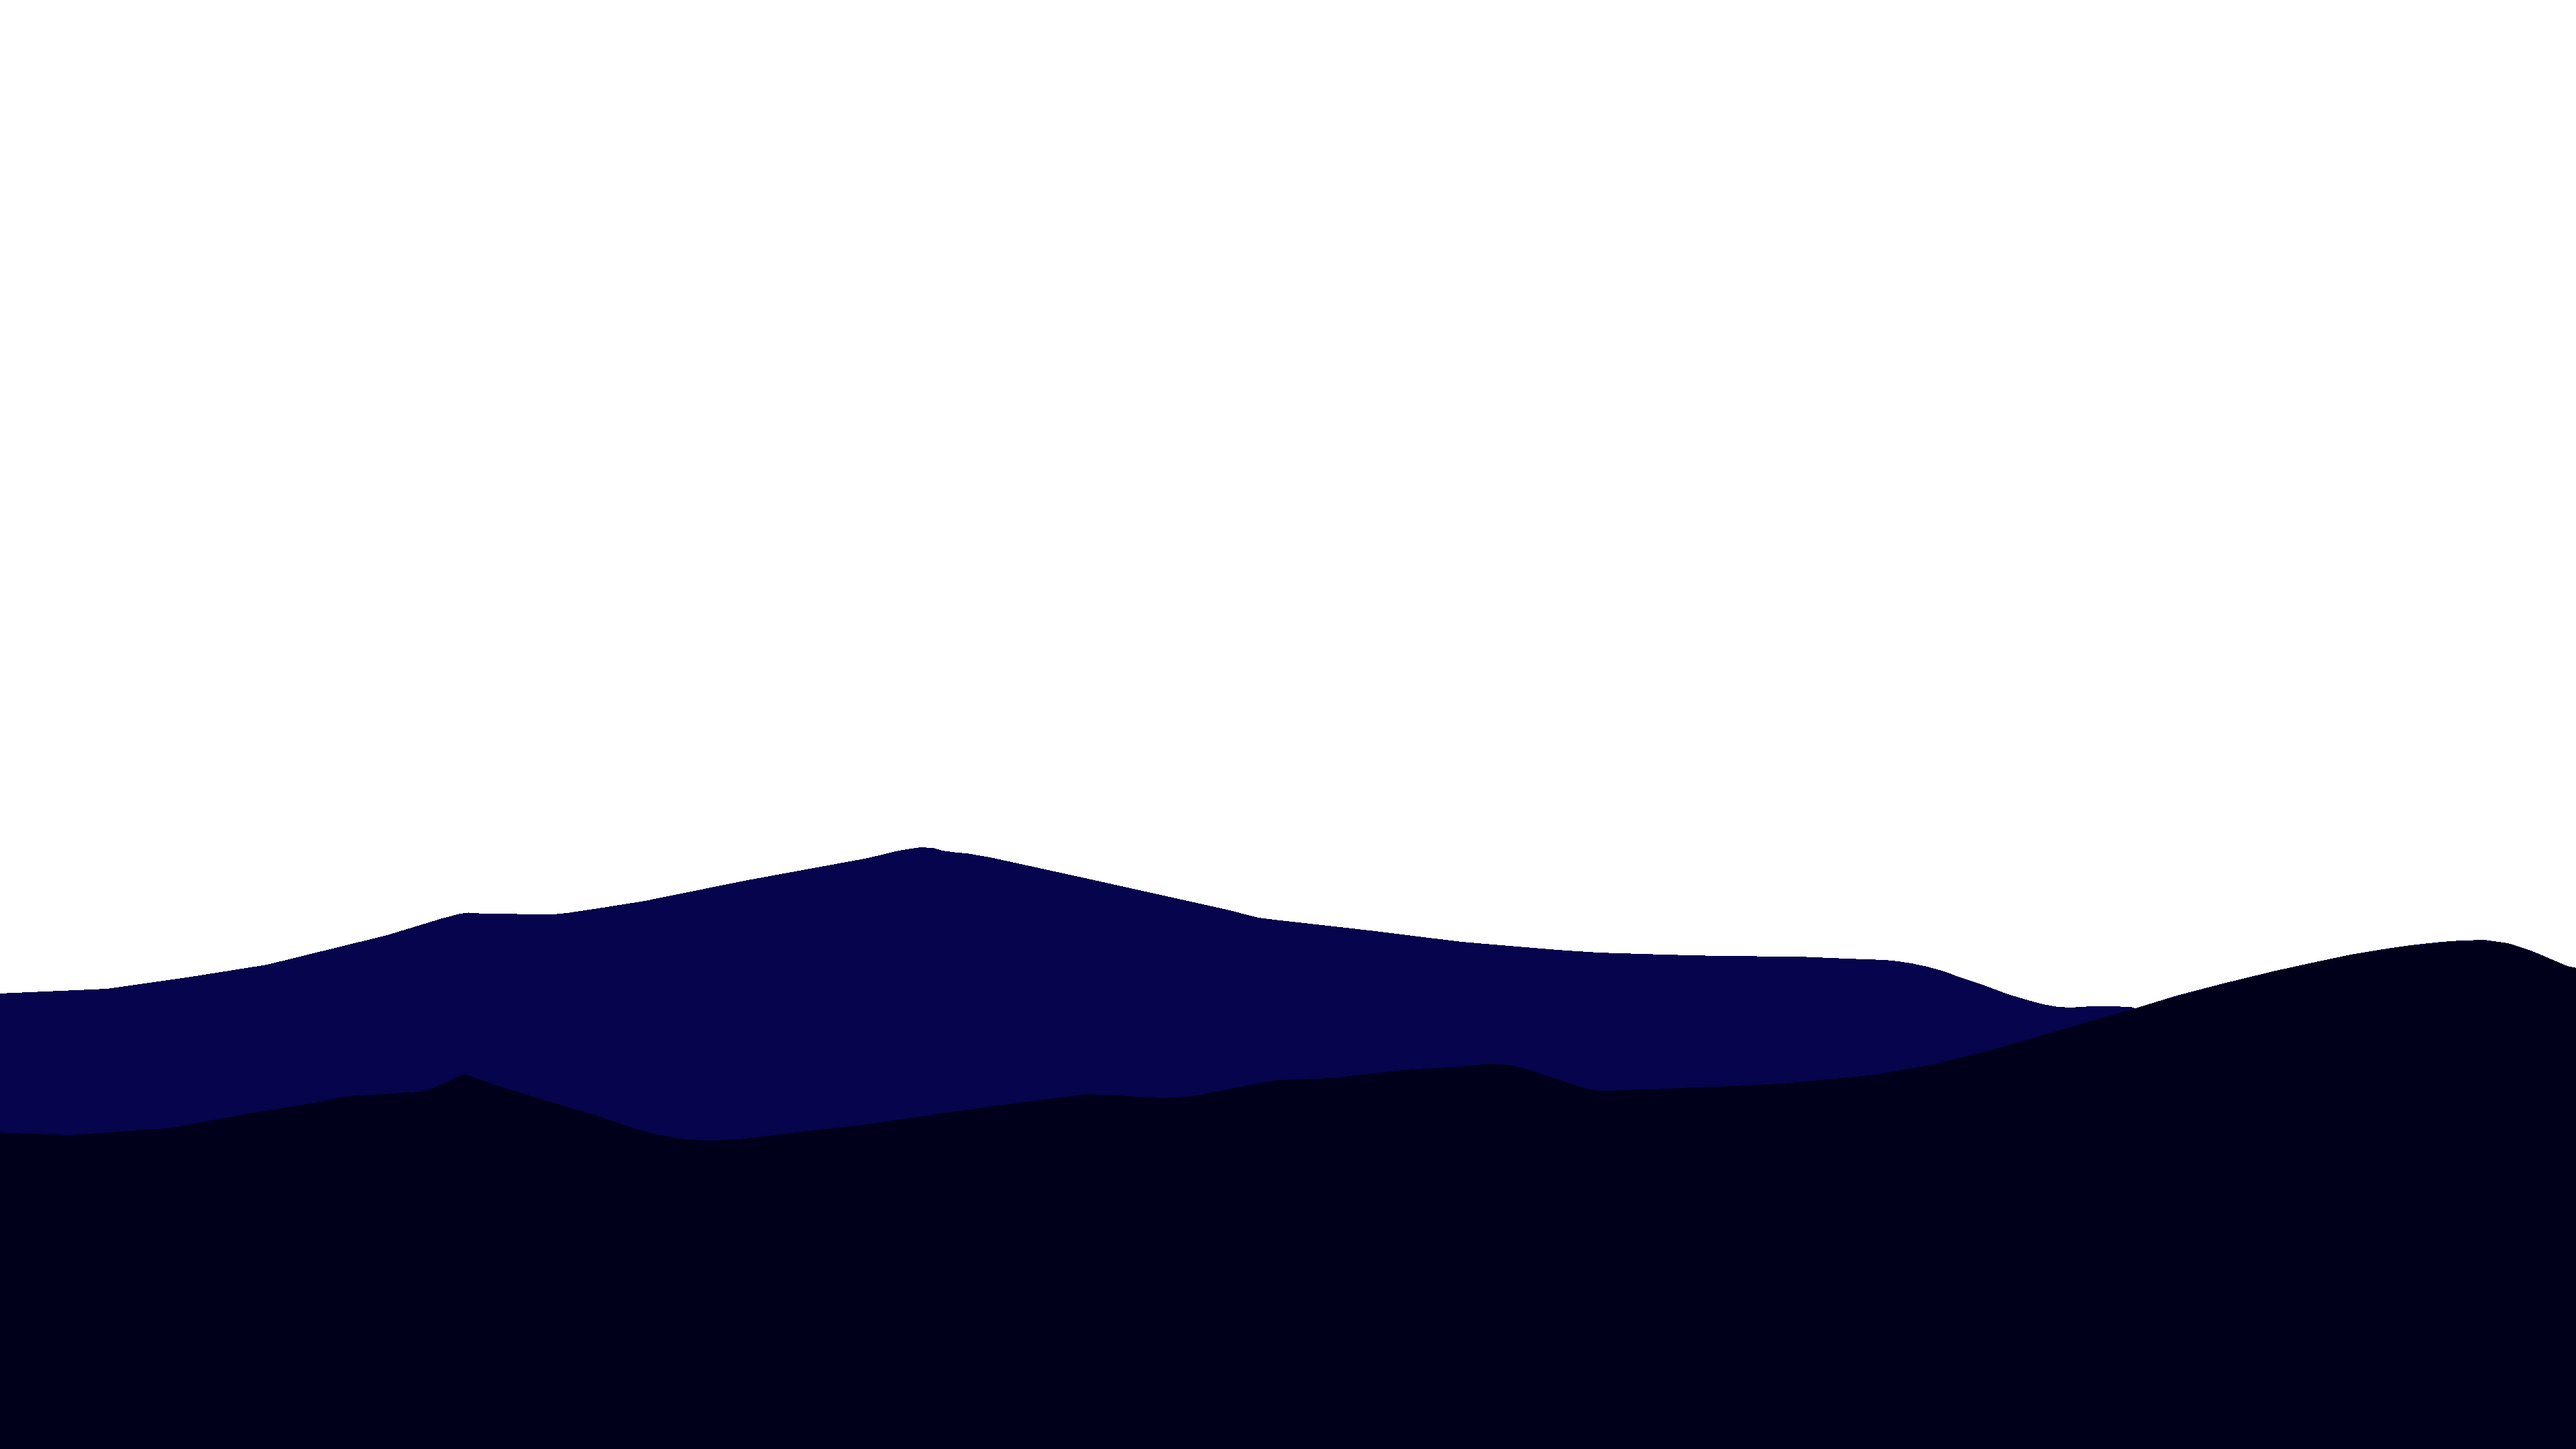
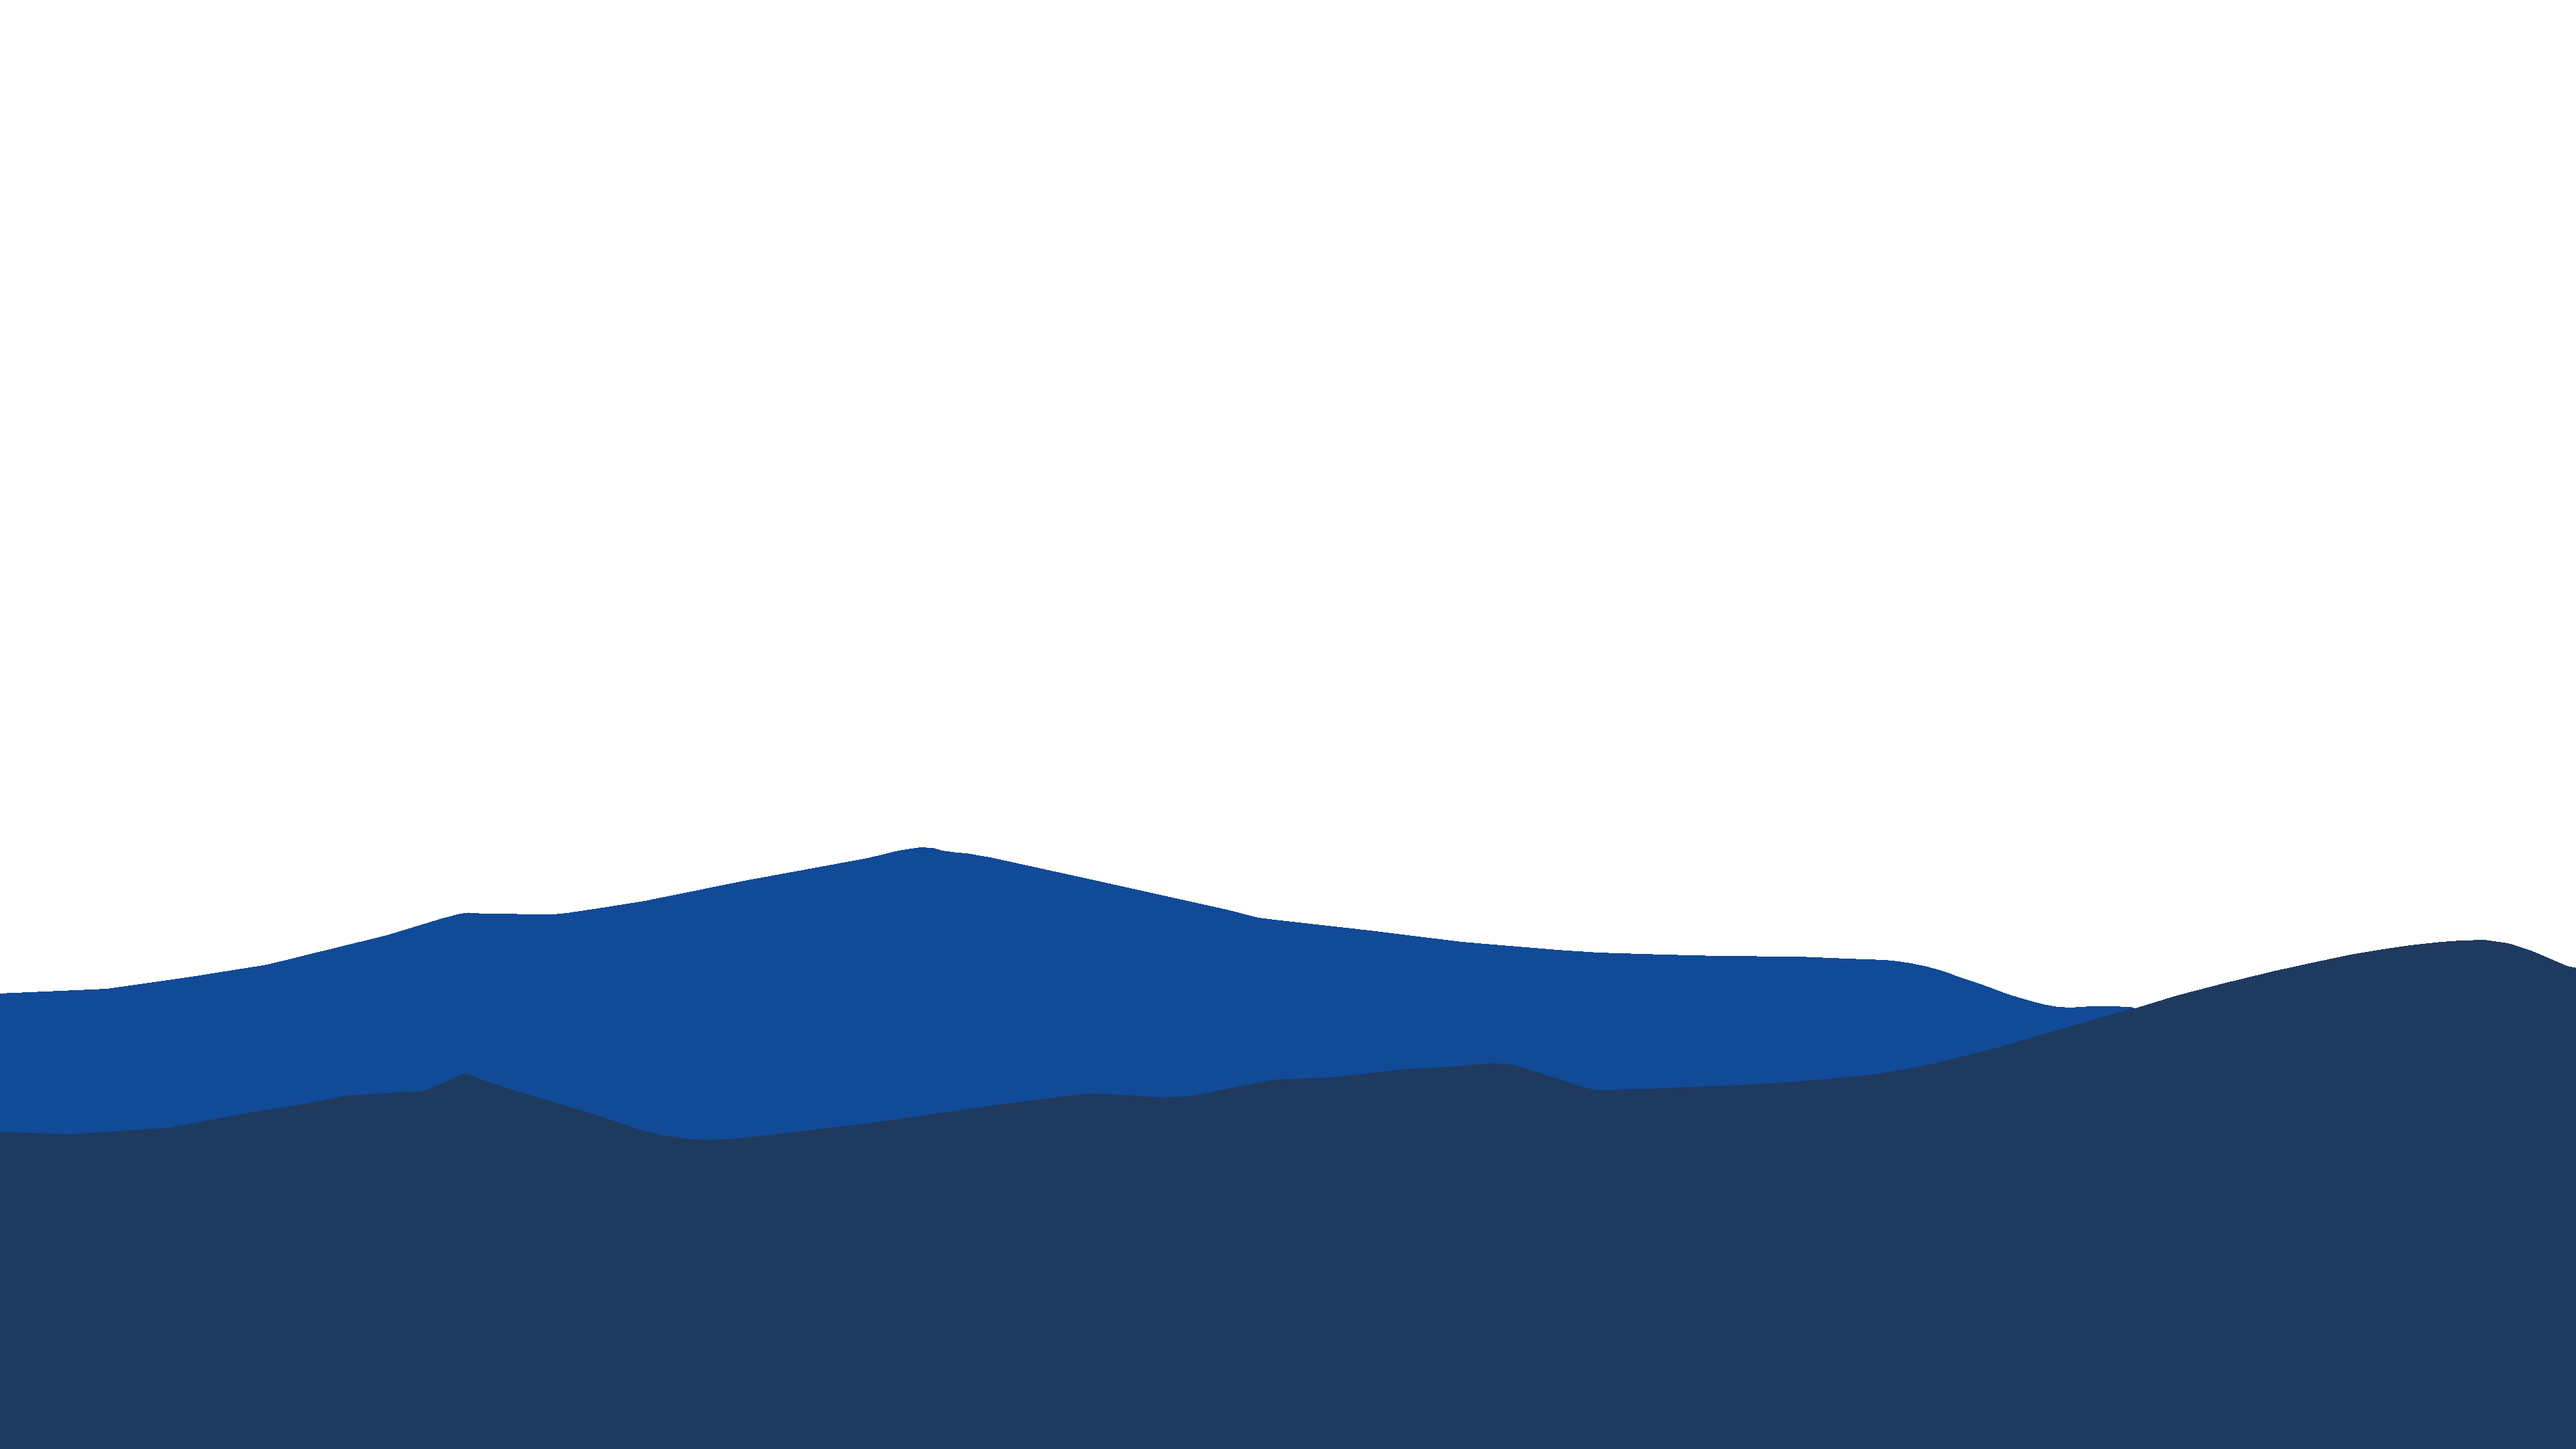
Fixed layout and added suggested courses

diff --git a/public/stylesheets/index.css b/public/stylesheets/index.css
@@ -10,9 +10,13 @@ body
 {
   margin: 0;
   overflow-x: hidden;
-  background-color: #00001a;
+  background-color: #1e3a5f;
   color: white;
 }
+
+/*
+  Parallax
+*/
 
 #parallax-overlay
 {
@@ -27,14 +31,74 @@ body
   font-family: VCR_OSD_MONO;
 }
 
+/*
+  Content
+*/
+
 #contentSection
 {
   width: 95%;
   margin: 0 auto;
 }
 
+/*
+  Responsive flex box
+*/
+.responsive-flex
+{
+  display: flex;
+  justify-content: center;
+  align-items: center;
+  flex-direction: column;
+  margin: -10px;
+}
+
+/*
+  Course Box
+*/
+.courseBox
+{
+  background-color: white;
+  width: calc(30% - 20px);
+  margin: 10px;
+  display: flex;
+  color: black;
+  padding: 10px;
+  box-shadow: 0px 3px 16px rgba(0, 0, 0, 0.16);
+}
+
+.courseBox img
+{
+  height: 100px;
+}
+
+.courseBox h1
+{
+  margin: 7px 0;
+  font-size: 20px;
+}
+
+.courseBox p
+{
+  margin: 0;
+}
+
+.courseBox h1,
+.courseBox p
+{
+  text-align: center;
+}
+
+footer
+{
+  min-height: 500px;
+}
+
 @media screen and (min-width: 800px)
 {
+  /*
+    Paralex
+  */
   #parallax-container
   {
     display: block;
@@ -63,4 +127,14 @@ body
   #parallax-container div:nth-of-type(5) { background-image: url("../img/5.png"); z-index: 10;}
   #parallax-container div:nth-of-type(6) { background-image: url("../img/6.png"); z-index: 5;}
   #parallax-container div:nth-of-type(7) { background-image: url("../img/7.png"); z-index: 0; }
+
+  /*
+    Responsive flex
+  */
+  .responsive-flex
+  {
+    flex-direction: row;
+    flex-wrap: wrap;
+  }
+
 }

diff --git a/public/script/parralax.js b/public/script/parralax.js
@@ -4,6 +4,8 @@ window.addEventListener('scroll', () => {
    for(let i = 0; i < children.length; i++) {
      children[i].style.transform = 'translateY(-' + (window.pageYOffset * (children.length - i) / children.length * 2) + 'px)';
    }
-   parent.style.height = (window.innerHeight - window.pageYOffset) + 'px';
-   console.log(parent.style.height)
+   if(parent.offsetHeight > window.pageYOffset)
+   {
+    parent.style.height = (window.innerHeight - window.pageYOffset) + 'px';
+   }
 }, false)

diff --git a/public/pages/index.php b/public/pages/index.php
@@ -49,13 +49,82 @@
         <div></div>
     </div>
     <section id='contentSection'>
-        <h1>
-            Welcome to Learn2gether!
-        </h1>
-        <p>
-            Learn2gether is an website where you can learn programming by making excercises that everyone can publish on the website. 
-            We as Learn2gether want everyone to be able to learn programming withouth a problem. 
-        </p>
+        <section>
+            <h1>
+                Welcome to Learn2gether!
+            </h1>
+            <p>
+                Learn2gether is an website where you can learn programming by making excercises that everyone can publish on the website. 
+                We as Learn2gether want everyone to be able to learn programming withouth a problem. 
+            </p>
+        </section>
+        <section id="suggestedCourses">
+            <h1>
+                Suggested Courses
+            </h1>
+            <div class="responsive-flex">
+                <div class="courseBox">
+                    <div class="grid-y">
+                        <div class="grid-x">
+                            <div class="cell">
+                                <img class="float-center" src="../img/html_logo.png" alt="">
+                            </div>
+                        </div>
+                        <div class="grid-x">
+                            <div class="cell">
+                                <h1>
+                                    HTML
+                                </h1>
+                                <p>
+                                Lorem ipsum dolor sit amet, consectetur adipiscing elit. Aliquam mollis, erat id molestie aliquam.
+                                </p>
+                            </div>
+                        </div>
+                    </div>
+                </div>
+                <div class="courseBox">
+                    <div class="grid-y">
+                        <div class="grid-x">
+                            <div class="cell">
+                                <img class="float-center" src="../img/css_logo.png" alt="">
+                            </div>
+                        </div>
+                        <div class="grid-x">
+                            <div class="cell">
+                                <h1>
+                                    CSS
+                                </h1>
+                                <p>
+                                Lorem ipsum dolor sit amet, consectetur adipiscing elit. Aliquam mollis, erat id molestie aliquam.
+                                </p>
+                            </div>
+                        </div>
+                    </div>
+                </div>
+                <div class="courseBox">
+                    <div class="grid-y">
+                        <div class="grid-x">
+                            <div class="cell">
+                                <img class="float-center" src="../img/javascript_logo.png" alt="">
+                            </div>
+                        </div>
+                        <div class="grid-x">
+                            <div class="cell">
+                                <h1>
+                                    Javascript
+                                </h1>
+                                <p>
+                                Lorem ipsum dolor sit amet, consectetur adipiscing elit. Aliquam mollis, erat id molestie aliquam.
+                                </p>
+                            </div>
+                        </div>
+                    </div>
+                </div>
+            </div>
+        </section>
     </section>
+    <footer>
+
+    </footer>
 </body>
 </html>
